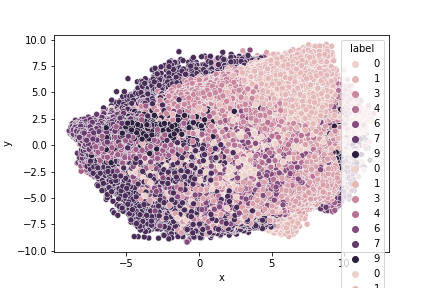
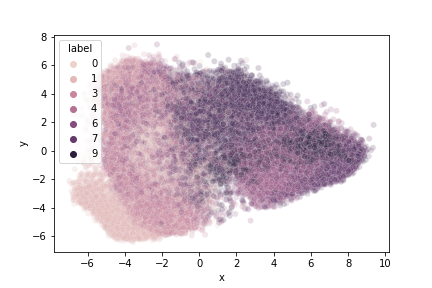
plt 그리고 cla() 호출하고 모델 좀 더 깊게해서 train acc 0.9

diff --git a/model.py b/model.py
@@ -74,9 +74,9 @@ class FashionMnistNet(nn.Module):
             nn.ReLU(),
             nn.MaxPool2d(2),
             # 7x7x16
-            nn.Conv2d(16, 128, 3, padding=1, bias=False),
+            nn.Conv2d(64, 128, 3, padding=1, bias=False),
             nn.ReLU(),
-            # 1x1x64
+            # 1x1x128
             GeM(p_trainable=True)
         )
         self.head = nn.Sequential(
@@ -86,7 +86,7 @@ class FashionMnistNet(nn.Module):
         
     def forward(self, x):
         x = x.view(-1, 1, 28, 28)
-        emb = self.model(x).view(-1, 64)
+        emb = self.model(x).view(-1, 128)
         logits = self.head(emb)
         return {
             "embeddings": emb, 
